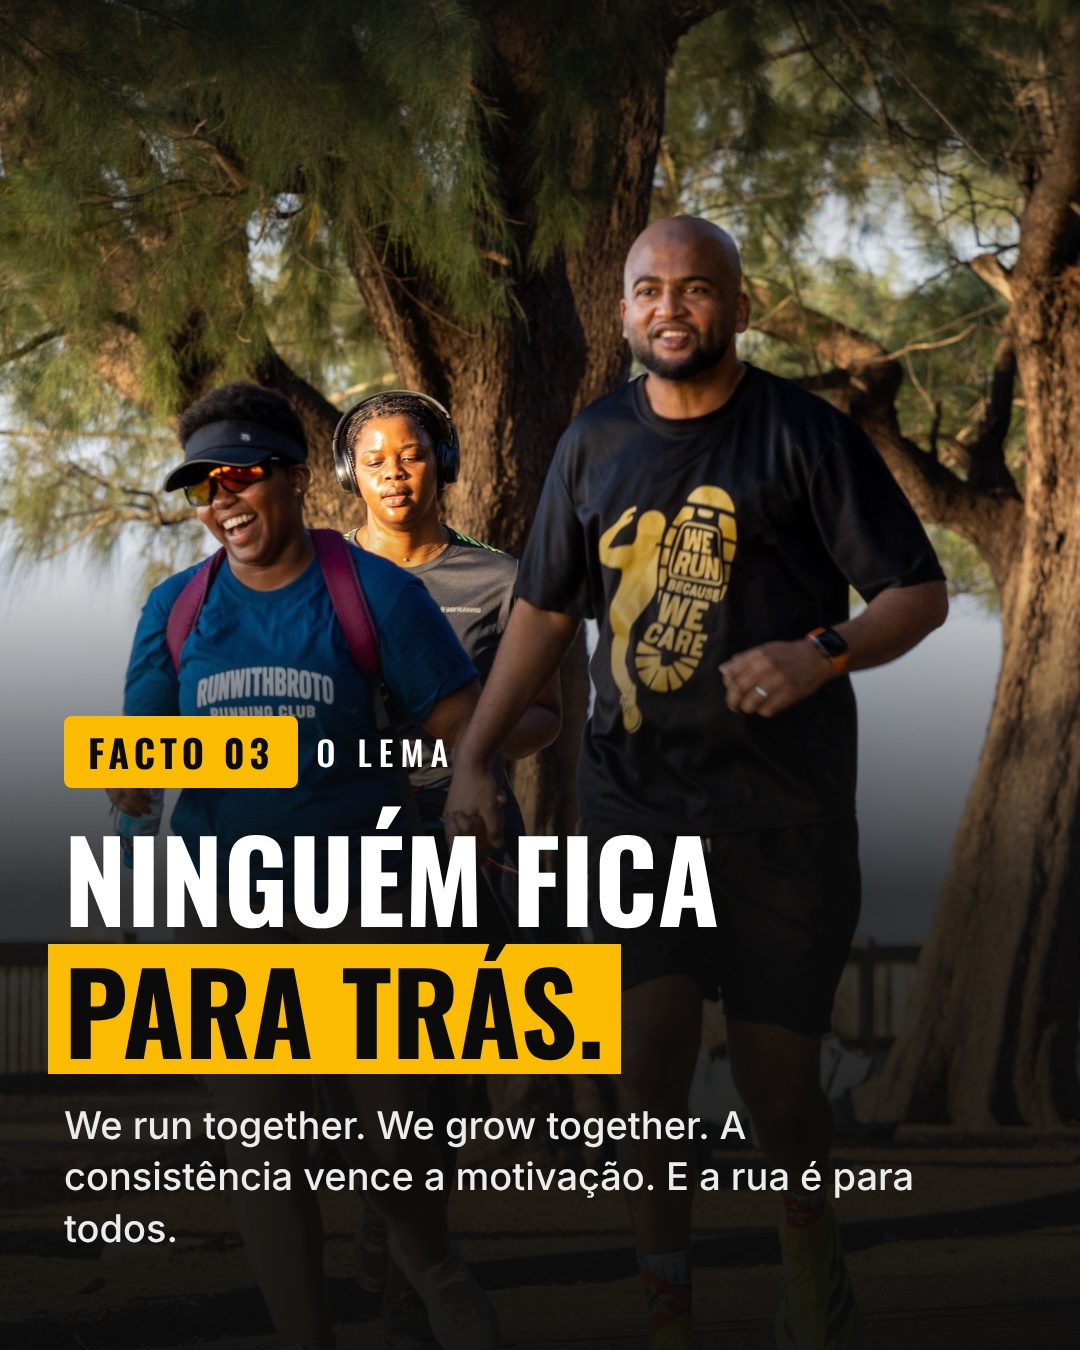
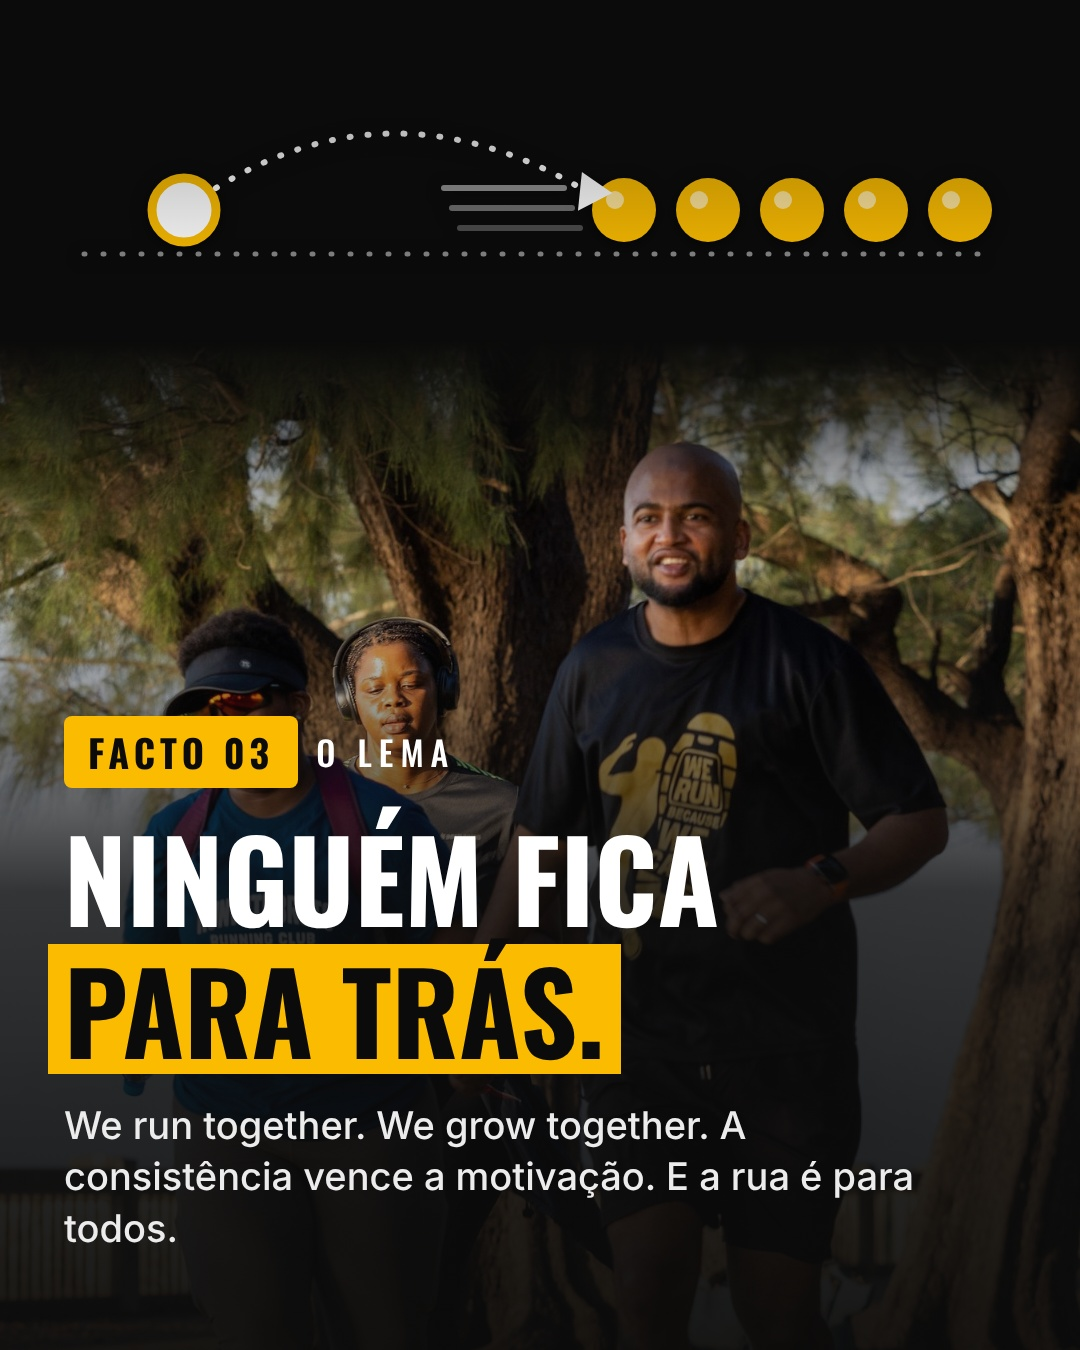
Carrossel: arte nos factos 1 (ondulação do Broto) e 3 (grupo que puxa quem ficou atrás); último slide mais limpo
Claude-Session: https://claude.ai/code/session_01DkaCWGXuFd6yQ1MSFtQr7D

diff --git a/src/Carousel.tsx b/src/Carousel.tsx
@@ -233,17 +233,64 @@ const LedNumber: React.FC<{text: string; accent: string}> = ({text, accent}) => 
   );
 };
 
+/** Facto 1: a jornada de uma pessoa (Broto) espalha-se em anéis pela comunidade. */
+const OriginArt: React.FC<{accent: string}> = ({accent}) => {
+  const C = {x: 500, y: 430}; // posição do Broto na foto
+  const RINGS = [{r: 130, n: 7, o: 0.9}, {r: 250, n: 11, o: 0.6}, {r: 370, n: 15, o: 0.38}, {r: 490, n: 0, o: 0.22}];
+  return (
+    <svg width="1080" height="1350" viewBox="0 0 1080 1350" style={{position: "absolute", left: 0, top: 0,
+      WebkitMaskImage: "linear-gradient(180deg, #000 40%, transparent 62%)"}}>
+      {RINGS.map((g, k) => (
+        <g key={k}>
+          <circle cx={C.x} cy={C.y} r={g.r} fill="none" stroke={accent} strokeWidth="3" opacity={g.o} />
+          {new Array(g.n).fill(0).map((_, i) => {
+            const t = (i / g.n) * Math.PI * 2 + k * 0.5;
+            return <circle key={i} cx={C.x + g.r * Math.cos(t)} cy={C.y + g.r * Math.sin(t)} r={9 - k * 1.5} fill={accent} opacity={g.o} />;
+          })}
+        </g>
+      ))}
+      {/* etiqueta sobre a cabeça */}
+      <g filter="drop-shadow(0 4px 10px rgba(0,0,0,0.5))">
+        <rect x={C.x - 100} y={226} width="200" height="64" rx="32" fill={accent} />
+        <polygon points={`${C.x - 14},288 ${C.x + 14},288 ${C.x},312`} fill={accent} />
+        <circle cx={C.x - 66} cy={258} r="22" fill={INK} />
+        <text x={C.x - 66} y={271} textAnchor="middle" fontFamily={OSWALD} fontWeight={700} fontSize="34" fill={accent}>B</text>
+        <text x={C.x + 16} y={271} textAnchor="middle" fontFamily={OSWALD} fontWeight={700} fontSize="36" letterSpacing="3" fill={INK}>BROTO</text>
+      </g>
+    </svg>
+  );
+};
+
+/** Facto 3: o grupo segue junto e quem ficou atrás é puxado para a frente. */
+const PackArt: React.FC<{accent: string}> = ({accent}) => (
+  <svg width="952" height="300" viewBox="0 0 952 300" style={{position: "absolute", left: PAD, top: 48, filter: "drop-shadow(0 3px 8px rgba(0,0,0,0.6))"}}>
+    <line x1="20" y1="206" x2="932" y2="206" stroke="#fff" strokeWidth="5" strokeLinecap="round" strokeDasharray="1 18" opacity="0.5" />
+    {[0, 1, 2].map((i) => <line key={i} x1={380 + i * 8} y1={140 + i * 20} x2={500 + i * 8} y2={140 + i * 20} stroke="#fff" strokeWidth="6" strokeLinecap="round" opacity={0.55 - i * 0.14} />)}
+    {[0, 1, 2, 3, 4].map((i) => (
+      <g key={i}>
+        <circle cx={560 + i * 84} cy="162" r="32" fill={accent} />
+        <circle cx={560 + i * 84 - 9} cy="152" r="9" fill="#fff" opacity="0.6" />
+      </g>
+    ))}
+    <circle cx="120" cy="162" r="32" fill="#fff" stroke={accent} strokeWidth="9" />
+    <path d="M152,140 Q330,30 520,142" fill="none" stroke="#fff" strokeWidth="6" strokeLinecap="round" strokeDasharray="1 17" />
+    <polygon points="520,124 548,148 512,162" fill="#fff" transform="rotate(-6 520 144)" />
+  </svg>
+);
+
 const Fact: React.FC<{s: FactSlide}> = ({s}) => {
   const lines = s.title.split("\n");
   const stat = s.stat;
   return (
     <AbsoluteFill style={{background: INK}}>
-      <Img src={staticFile(s.photo)} style={{width: "100%", height: "100%", objectFit: "cover", objectPosition: s.pos, transform: s.shift ? `translateY(${-s.shift}px)` : undefined, WebkitMaskImage: s.shift ? `linear-gradient(180deg, #000 ${1350 - s.shift - 200}px, transparent ${1350 - s.shift}px)` : undefined, filter: s.cut ? "blur(4px) brightness(0.8)" : s.night ? "brightness(0.55) saturate(0.7) contrast(1.1)" : undefined}} />
+      <Img src={staticFile(s.photo)} style={{width: "100%", height: "100%", objectFit: "cover", objectPosition: s.pos, transform: s.shift ? `translateY(${-s.shift}px)` : undefined, WebkitMaskImage: s.shift ? (s.shift > 0 ? `linear-gradient(180deg, #000 ${1350 - s.shift - 200}px, transparent ${1350 - s.shift}px)` : `linear-gradient(180deg, transparent ${-s.shift}px, #000 ${-s.shift + 220}px)`) : undefined, filter: s.cut ? "blur(4px) brightness(0.8)" : s.night ? "brightness(0.55) saturate(0.7) contrast(1.1)" : undefined}} />
       {s.night && <AbsoluteFill style={{background: "linear-gradient(180deg, rgba(8,24,70,0.78) 0%, rgba(14,40,110,0.45) 100%)", mixBlendMode: "multiply"}} />}
       {s.night && <Moon />}
-      {s.diagram && <AbsoluteFill style={{background: s.diagram === "night" ? "linear-gradient(180deg, rgba(8,14,36,0.9) 0%, rgba(8,14,36,0.75) 21%, rgba(8,14,36,0) 36%)" : "linear-gradient(180deg, rgba(11,11,11,0.65) 0%, rgba(11,11,11,0.2) 45%, rgba(11,11,11,0) 100%)"}} />}
+      {s.diagram && s.diagram !== "pack" && <AbsoluteFill style={{background: s.diagram === "night" ? "linear-gradient(180deg, rgba(8,14,36,0.9) 0%, rgba(8,14,36,0.75) 21%, rgba(8,14,36,0) 36%)" : "linear-gradient(180deg, rgba(11,11,11,0.65) 0%, rgba(11,11,11,0.2) 45%, rgba(11,11,11,0) 100%)"}} />}
       {s.diagram === "hybrid" && <HybridDiagram />}
       {s.diagram === "night" && <NightArt accent={s.accent} />}
+      {s.diagram === "origin" && <OriginArt accent={s.accent} />}
+      {s.diagram === "pack" && <PackArt accent={s.accent} />}
       {s.cut && (
         <div style={{position: "absolute", left: 0, right: 0, top: 120, textAlign: "center", fontFamily: OSWALD, fontWeight: 700, fontSize: 760, lineHeight: 1, color: s.accent, opacity: 0.95}}>
           {s.kicker.slice(-2)}
@@ -277,18 +324,11 @@ const Fact: React.FC<{s: FactSlide}> = ({s}) => {
 
 const Cta: React.FC = () => (
   <AbsoluteFill style={{background: INK}}>
-    <AbsoluteFill style={{background: "radial-gradient(circle at 50% 38%, rgba(250,187,0,0.3) 0%, rgba(11,11,11,0) 62%)"}} />
+    <AbsoluteFill style={{background: "radial-gradient(circle at 50% 42%, rgba(250,187,0,0.16) 0%, rgba(11,11,11,0) 60%)"}} />
     <AbsoluteFill style={{alignItems: "center", justifyContent: "center", textAlign: "center", padding: PAD}}>
-      <Img src={staticFile("logo-yellow.png")} style={{width: 720}} />
-      <div style={{marginTop: 54, fontFamily: OSWALD, fontWeight: 700, fontSize: 130, lineHeight: 1.08, textTransform: "uppercase", color: "#fff"}}>Junta-te</div>
-      <div style={{position: "relative", marginTop: 4}}>
-        <div style={{position: "absolute", inset: "2px -22px 0 -22px", background: BRAND}} />
-        <div style={{position: "relative", fontFamily: OSWALD, fontWeight: 700, fontSize: 130, lineHeight: 1.08, textTransform: "uppercase", color: INK}}>ao clube</div>
-      </div>
-      <div style={{marginTop: 48, display: "flex", gap: 22, fontFamily: INTER, fontWeight: 600, fontSize: 46}}>
-        <span style={{color: BRAND}}>Corre.</span><span style={{color: "#fff"}}>Convive.</span><span style={{color: BRAND}}>Repete.</span>
-      </div>
-      <div style={{marginTop: 40, fontFamily: OSWALD, fontWeight: 500, fontSize: 42, letterSpacing: 5, color: "#fff"}}>{HANDLE}</div>
+      <Img src={staticFile("logo-yellow.png")} style={{width: 680}} />
+      <div style={{marginTop: 70, fontFamily: OSWALD, fontWeight: 700, fontSize: 96, lineHeight: 1.1, textTransform: "uppercase", color: "#fff", letterSpacing: 2}}>Junta-te ao clube</div>
+      <div style={{marginTop: 34, fontFamily: OSWALD, fontWeight: 500, fontSize: 42, letterSpacing: 6, color: BRAND}}>{HANDLE}</div>
     </AbsoluteFill>
   </AbsoluteFill>
 );

diff --git a/src/carousel.ts b/src/carousel.ts
@@ -7,21 +7,21 @@ export const HANDLE = "@runwithbroto_";
 
 export type FactSlide = {
   kind: "fact"; kicker: string; chapter: string; title: string; body: string; photo: string; cut?: string; pos: string;
-  accent: string; night?: boolean; shift?: number; diagram?: "hybrid" | "night"; stat?: {text: string; stamp?: boolean; led?: boolean};
+  accent: string; night?: boolean; shift?: number; diagram?: "hybrid" | "night" | "origin" | "pack"; stat?: {text: string; stamp?: boolean; led?: boolean};
 };
 export type Slide = {kind: "cover"; prompt: string; photo: string; pos: string} | FactSlide | {kind: "cta"};
 
 const BRAND = "#fabb00";
 // foto / recorte / enquadramento de cada facto (mesma ordem de FACTS em facts.ts)
 const LOOK = [
-  {pos: "49% 50%", shift: 170}, {pos: "28% 50%"}, {pos: "50% 35%"}, {pos: "50% 0%", shift: 290, diagram: "night"}, {pos: "50% 60%", diagram: "hybrid"}, {pos: "50% 50%"}, {pos: "50% 40%"}, {pos: "50% 0%"},
+  {pos: "49% 50%", shift: 170, diagram: "origin"}, {pos: "28% 50%"}, {pos: "50% 25%", shift: -170, diagram: "pack"}, {pos: "50% 0%", shift: 290, diagram: "night"}, {pos: "50% 60%", diagram: "hybrid"}, {pos: "50% 50%"}, {pos: "50% 40%"}, {pos: "50% 0%"},
 ];
 const STAT = [undefined, undefined, undefined, undefined, undefined, {text: "+2500", led: true}, {text: "+1 000"}, {text: "25 JUN", stamp: true}];
 
 export const SLIDES: Slide[] = [
   {kind: "cover", prompt: PROMPT, photo: "photos/cover.jpg", pos: "50% 0%"},
   ...FACTS.map((f, i): FactSlide => ({
-    kind: "fact", kicker: f.kicker, chapter: f.chapter, title: f.title, body: f.body, photo: f.photo, cut: f.cut, pos: LOOK[i].pos, night: (LOOK[i] as {night?: boolean}).night, shift: (LOOK[i] as {shift?: number}).shift, diagram: (LOOK[i] as {diagram?: "hybrid" | "night"}).diagram,
+    kind: "fact", kicker: f.kicker, chapter: f.chapter, title: f.title, body: f.body, photo: f.photo, cut: f.cut, pos: LOOK[i].pos, night: (LOOK[i] as {night?: boolean}).night, shift: (LOOK[i] as {shift?: number}).shift, diagram: (LOOK[i] as {diagram?: "hybrid" | "night" | "origin" | "pack"}).diagram,
     accent: f.accent ?? BRAND, stat: STAT[i],
   })),
   {kind: "cta"},
